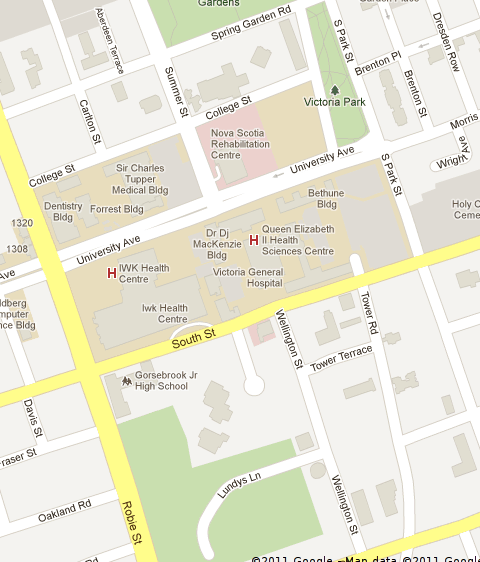
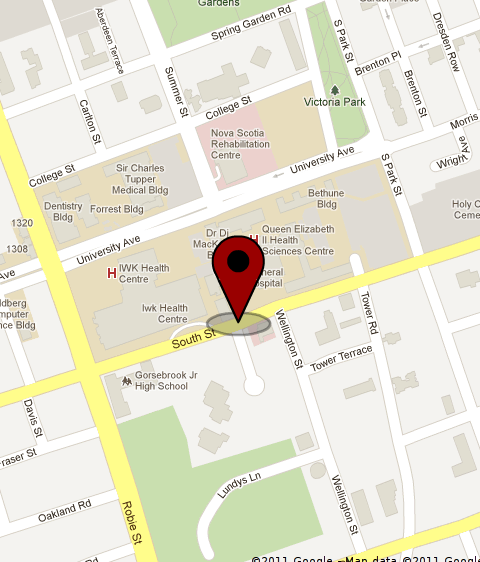
Added more images, updated js

Changed region(s): [[0.4375, 0.3932, 0.5625, 0.605]]

diff --git a/map.html b/map.html
@@ -19,7 +19,8 @@
                 <img class="cm-header-icon" src="img/home_48.png" /></a>
         </div>
         <div class="cm-content">
-            <img src="img/blank_map.png" width="100%" height="80%" />
+            <img id="map_container" 
+                src="img/blank_map.png" width="100%" height="80%" />
         </div>
         <div data-role="footer">
             <div data-role="navbar">

diff --git a/js/map.js b/js/map.js
@@ -45,10 +45,13 @@ $(document).ready(function() {
 
     function init() {
         var query = getUrlVars();
+        var src = query['query'] + '_map.png';
 
-        alert(query['query']);
+        if(src === '_map.png') {
+            src = 'blank_map.png';
+        }
 
-        
+        $('#map_container').attr('src', src);
     }
 
     function resizeItems() {
